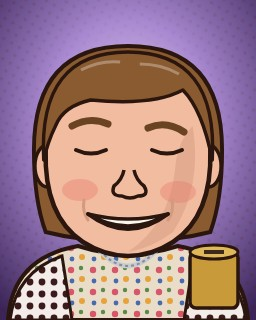
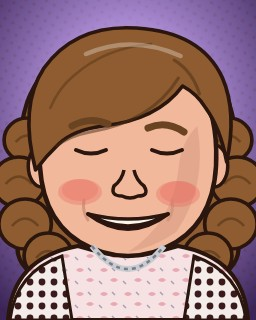
Blokaas: refined Hans and Conny portraits
Hans gets a swept-back side parting with grey temples and a longer face; Conny gets her big
brown waves with side curls, a side fringe, rosy cheeks, the silver chain and a pale pink
floral top with black polka-dot panels, closer to Tristan's photos.

diff --git a/tools/portraits/cast.js b/tools/portraits/cast.js
@@ -14,6 +14,7 @@ const bg = (id, tint) => `
   <pattern id="velv${id}" width="20" height="20" patternUnits="userSpaceOnUse"><rect width="20" height="20" fill="#3a2a22"/><path d="M2 10 q4 -8 8 0 q4 8 8 0" stroke="#7a5a44" stroke-width="2" fill="none"/></pattern>
   <pattern id="gingham${id}" width="10" height="10" patternUnits="userSpaceOnUse"><rect width="10" height="10" fill="#f2f4f8"/><rect width="5" height="10" fill="#3a5a9a" opacity=".55"/><rect width="10" height="5" fill="#3a5a9a" opacity=".55"/></pattern>
   <pattern id="polka${id}" width="12" height="12" patternUnits="userSpaceOnUse"><rect width="12" height="12" fill="#f4ece8"/><circle cx="6" cy="6" r="3.4" fill="#3a1a1a"/></pattern>
+  <pattern id="pinkflor${id}" width="24" height="24" patternUnits="userSpaceOnUse"><rect width="24" height="24" fill="#f6e2e2"/><path d="M4 6 q4 -4 8 0 q-4 4 -8 0z M14 16 q4 -4 8 0 q-4 4 -8 0z" fill="#e8a8b4"/><path d="M16 4 l3 3 M3 17 l3 3" stroke="#a8a0b8" stroke-width="1.5"/></pattern>
   <pattern id="knit${id}" width="10" height="10" patternUnits="userSpaceOnUse"><rect width="10" height="10" fill="#b86a4a"/><path d="M0 5 l5 -3 l5 3" stroke="#e8c47a" stroke-width="2" fill="none"/><rect y="8" width="10" height="2" fill="#5a7a5a"/></pattern>
 </defs>
 <rect width="256" height="320" fill="url(#bg${id})"/>
@@ -215,13 +216,31 @@ Object.assign(CAST, {
 });
 Object.assign(CLOTHES, {
   hansJacket: (o) => `<path d="${BODY}" fill="#6a6a5e" ${ST} stroke-width="4"/><path d="M98 246 l30 38 l30 -38 q-30 10 -60 0z" fill="#e8eef6" ${ST} stroke-width="3"/><path d="M98 246 l30 74 l30 -74" fill="url(#gingham${o.id})" ${ST} stroke-width="3"/><path d="M98 246 l-6 74 M158 246 l6 74" ${ST} stroke-width="3" fill="none"/><path d="M106 248 l18 62 M150 248 l-18 62" stroke="#3ab0c0" stroke-width="5" fill="none"/><rect x="118" y="304" width="20" height="16" rx="2" fill="#6abf4a" ${ST} stroke-width="2"/>`,
-  connyTop: (o) => `<path d="${BODY}" fill="url(#flor${o.id})" ${ST} stroke-width="4"/><path d="M10 320 q6 -48 52 -64 l10 64z M246 320 q-6 -48 -52 -64 l-10 64z" fill="url(#polka${o.id})" ${ST} stroke-width="3"/><path d="M96 246 q32 40 64 0" fill="none" stroke="#c8ccd2" stroke-width="5"/><path d="M96 246 q32 40 64 0" fill="none" stroke="#8a8e94" stroke-width="2" stroke-dasharray="3 3"/>`,
+  connyTop: (o) => `<path d="${BODY}" fill="url(#pinkflor${o.id})" ${ST} stroke-width="4"/><path d="M10 320 q6 -48 52 -64 l10 64z M246 320 q-6 -48 -52 -64 l-10 64z" fill="url(#polka${o.id})" ${ST} stroke-width="3"/>`,
+});
+// Hans's swept-back side parting and Conny's big brown waves (from Tristan's photos, 2026-11-28)
+Object.assign(HAIR, {
+  swept: { front: (c) => `<path d="M46 156 q-10 -40 2 -66 q10 -30 34 -46 q26 -16 56 -14 q40 2 60 24 q22 26 18 102 q-6 -30 -14 -44 q-6 -14 -16 -22 q-20 -10 -48 -8 q-30 2 -50 14 q-18 10 -26 26 q-8 14 -16 34z" fill="${c}" ${ST} stroke-width="3.5" stroke-linejoin="round"/>
+<path d="M64 106 q20 -46 82 -58 M80 94 q32 -38 100 -36 M100 86 q40 -26 98 -6 M150 34 q36 8 52 36" stroke="#3a2e22" stroke-width="2.5" opacity=".45" fill="none" stroke-linecap="round"/>
+<path d="M96 48 q34 -14 70 -4" stroke="#fff" stroke-width="4" opacity=".3" fill="none" stroke-linecap="round"/>
+<path d="M50 146 q-4 -26 6 -46 M206 148 q6 -26 -4 -48" stroke="#cfc8ba" stroke-width="7" opacity=".8" fill="none" stroke-linecap="round"/>` },
+  waves: { back: (c) => { let s = `<path d="M128 40 q74 0 96 62 q12 40 6 78 q12 30 2 58 q6 24 -16 38 l-176 0 q-22 -14 -16 -38 q-10 -28 2 -58 q-6 -38 6 -78 q22 -62 96 -62z" fill="${c}" ${ST} stroke-width="4" stroke-linejoin="round"/>`;
+      for (const [x, y, r] of [[32, 140, 22], [24, 182, 25], [30, 224, 25], [52, 256, 23], [224, 140, 22], [232, 182, 25], [226, 224, 25], [204, 256, 23]]) s += `<circle cx="${x}" cy="${y}" r="${r}" fill="${c}" ${ST} stroke-width="3.5"/><path d="M${x - r * 0.5} ${y + 2} q${r * 0.5} ${-r * 0.6} ${r} 0" stroke="#4a2c14" stroke-width="2.5" opacity=".5" fill="none"/>`;
+      return s; },
+    front: (c) => `<path d="M40 170 q-16 -64 8 -102 q30 -44 88 -40 q62 4 82 50 q14 34 4 84 q-6 -34 -20 -54 q-8 -14 -22 -22 q-24 34 -76 40 q-28 4 -42 18 q-12 12 -22 26z" fill="${c}" ${ST} stroke-width="3.5" stroke-linejoin="round"/>
+<path d="M176 78 q-26 44 -84 54 q-20 4 -32 14 M196 94 q-6 -22 -24 -34" stroke="#4a2c14" stroke-width="3" opacity=".5" fill="none" stroke-linecap="round"/>
+<path d="M150 44 q-44 4 -74 32 q-14 12 -22 32" stroke="#4a2c14" stroke-width="2.5" opacity=".4" fill="none" stroke-linecap="round"/>
+<path d="M88 54 q44 -20 90 2" stroke="#fff" stroke-width="4.5" opacity=".3" fill="none" stroke-linecap="round"/>` },
+});
+Object.assign(EXTRA, {
+  rosy: `<ellipse cx="80" cy="192" rx="22" ry="13" fill="#e8605a" opacity=".32"/><ellipse cx="178" cy="194" rx="22" ry="13" fill="#e8605a" opacity=".32"/>`,
+  chain: `<path d="M92 246 q36 46 72 0" fill="none" stroke="#c8ccd2" stroke-width="6"/><path d="M92 246 q36 46 72 0" fill="none" stroke="#7a7e84" stroke-width="2.5" stroke-dasharray="4 4"/>`,
 });
 // ---- the rivals (2026-11-28): Hans & Conny Blokaas of Blokaas Specijeren, Almere (js/blokaas.js). Lilac backdrop, the rival colour on the map
 const RIVAL = ['#e6d8f4', '#a888d0', '#3a2458'];
 Object.assign(CAST, {
-  hans: { skin: '#eaa88a', shade: '#c8866c', w: 1.04, hair: 'short', hc: '#8c7a5e', brows: 'raised', bc: '#7a6a50', eyes: 'narrow', iris: '#5a7a8a', mouth: 'smirk', clothes: 'hansJacket', extras: ['wrinkles', 'binoculars'], tint: RIVAL }, // Tristan's photo 2026-11-28: swept brown-grey hair, broad face, checked shirt, grey jacket, lanyard
-  conny: { skin: '#f2bca0', shade: '#d49a80', w: 0.98, hair: 'bob', hc: '#8a5a30', brows: 'happy', bc: '#6a4422', eyes: 'normal', iris: '#5a7a6a', mouth: 'grin', clothes: 'connyTop', extras: ['tin'], tint: RIVAL }, // Tristan's photo: wavy brown hair with a side fringe, big smile, pink floral top, silver chain
+  hans: { skin: '#e6a486', shade: '#c4826a', w: 0.98, hair: 'swept', hc: '#8a7658', brows: 'sly', bc: '#7a6a50', eyes: 'narrow', iris: '#5a7a8a', mouth: 'smirk', clothes: 'hansJacket', extras: ['wrinkles', 'rosy', 'binoculars'], tint: RIVAL }, // Tristan's photo 2026-11-28: swept-back brown-grey hair with grey temples, broad ruddy face, checked shirt, grey jacket, lanyard
+  conny: { skin: '#f2b89c', shade: '#d4967e', w: 1.05, hair: 'waves', hc: '#8e5c30', brows: 'happy', bc: '#6a4422', eyes: 'normal', iris: '#6a8a7a', mouth: 'grin', clothes: 'connyTop', extras: ['rosy', 'chain'], tint: RIVAL }, // Tristan's photo: big wavy brown hair with a side fringe, wide smile, rosy cheeks, pink floral top, silver chain
 });
 
 function cast(key, m, blink) {
